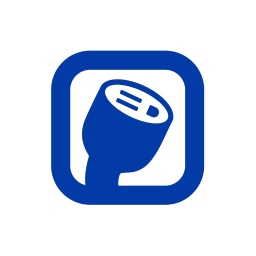
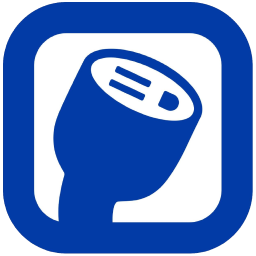
Update Documentation/assets. Update terminology for sensor.

diff --git a/custom_components/plugshare/sensor.py b/custom_components/plugshare/sensor.py
@@ -189,6 +189,8 @@ class PlugShareOutletSensor(PlugShareBaseSensor):
     def native_value(self):
         try:
             status = self.coordinator.data["stations"][0]["outlets"][self._outlet_index].get("status", "Unknown")
+            if status.upper() == "OUTOFORDER":
+                return "Out of order"
             return status.replace("_", " ").title()
         except (IndexError, KeyError):
             return "Unavailable"

diff --git a/README.md b/README.md
@@ -1,12 +1,60 @@
 # PlugShare for Home Assistant
 
+![](custom_components/plugshare/brand/icon.png)
+
+[![HACS](https://img.shields.io/badge/HACS-Custom-orange.svg)](https://github.com/hacs/integration)
+[![HACS Validation](https://github.com/nadeemsultan/homeassistant-plugshare/actions/workflows/hacs.yaml/badge.svg)](https://github.com/nadeemsultan/homeassistant-plugshare/actions/workflows/hacs.yaml)
+
 A custom integration for Home Assistant to monitor PlugShare EV charging locations, real-time stall availability, individual plug status, power ratings, and charging session timestamps.
 
 ## Features
 - **Live Occupancy:** Real-time available and in-use stall counters.
-- **Plug Monitoring:** Per-outlet status (`Charging`, `Available`, `Outoforder`), power output (kW), voltage (V), current (A), and status change timestamps.
+- **Plug Monitoring:** Per-outlet status (for example, `Charging`, `Available`, or `Out of order`), power output (kW), voltage (V), current (A), and status change timestamps.
 - **Location Diagnostics:** Pricing/tariffs, 24/7 access flags, repair problem alerts, and station hardware serial numbers.
 - **UI Config Flow:** Simple setup using standard PlugShare Location IDs.
+
+## Requirements
+
+- Home Assistant 2024.1.0 or newer.
+- Internet access from the Home Assistant host.
+- A valid PlugShare location ID.
+
+This integration does not require PlugShare account credentials. It retrieves station data from the PlugShare cloud service.
+
+
+## Entities & Data Provided
+Each configured PlugShare station creates a primary device representing the location with the following sensors and binary sensors. Entity IDs are generated from the station name.
+
+### Station Sensors
+| Entity | Entity ID pattern | Entity Category | Value | Description |
+|---|---|---|---|---|
+| Overall Status | `sensor.<station_name>_overall_status` | — | Text | Station operating status, such as `Available` or `Unknown`. |
+| Available Stalls | `sensor.<station_name>_available_stalls` | — | Number (`stalls`) | Currently open charging stalls. |
+| Occupied Stalls | `sensor.<station_name>_occupied_stalls` | — | Number (`stalls`) | Stalls actively charging or otherwise occupied. |
+| Charging Cost | `sensor.<station_name>_charging_cost` | — | Text | Tariff, hourly rate, or cost summary. |
+| Network Provider | `sensor.<station_name>_network_provider` | Diagnostic | Text | Charging network or operator name. |
+| Parking Type | `sensor.<station_name>_parking_type` | Diagnostic | Text | Parking access type, such as `Public` or `Customer Only`. |
+| Location Type | `sensor.<station_name>_location_type` | Diagnostic | Text | Point-of-interest category, such as `Hotel` or `Parking Garage`. |
+| Station ID | `sensor.<station_name>_station_id` | Diagnostic | Text | Station identifier. |
+
+### Station Binary Sensors
+| Entity | Entity ID pattern | Entity Category | Device Class | `on` state |
+|---|---|---|---|---|
+| 24/7 Access | `binary_sensor.<station_name>_24_7_access` | Diagnostic | — | Location is open 24/7. |
+| Under Repair | `binary_sensor.<station_name>_under_repair` | — | `problem` | Station is under maintenance or its status indicates repair. |
+| Fast Charger (DCFC) | `binary_sensor.<station_name>_fast_charger_dcfc` | Diagnostic | — | Location offers DC fast charging (Level 3). |
+| Requires Access Card | `binary_sensor.<station_name>_requires_access_card` | Diagnostic | `lock` | An RFID keycard or membership fob is required. |
+
+### Per-Outlet Sensors
+For every outlet returned in the station metadata during setup (`Plug 1`, `Plug 2`, and so on), the integration creates:
+
+| Entity | Entity ID pattern | Entity Category | Device Class | Unit | Description |
+|---|---|---|---|---|---|
+| Plug X Status | `sensor.<station_name>_plug_x_status` | — | — | — | Status returned by the API, formatted for display. |
+| Plug X Power | `sensor.<station_name>_plug_x_power` | — | `power` | `kW` | Maximum rated power output. |
+| Plug X Voltage | `sensor.<station_name>_plug_x_voltage` | Diagnostic | `voltage` | `V` | Rated connector voltage. |
+| Plug X Current | `sensor.<station_name>_plug_x_current` | Diagnostic | `current` | `A` | Rated amperage limit. |
+| Plug X Last Changed | `sensor.<station_name>_plug_x_last_changed` | — | `timestamp` | API-provided timezone | Parsed timestamp for the plug's last status change. |
 
 ## Installation
 
@@ -14,7 +62,7 @@ A custom integration for Home Assistant to monitor PlugShare EV charging locatio
 1. In Home Assistant, open **HACS** > Three dots menu (top right) > **Custom repositories**.
 2. Add repository URL: `https://github.com/nadeemsultan/homeassistant-plugshare`
 3. Set Category to **Integration** and click **Add**.
-4. Search for **PlugShare EV Tracker** and click **Download**.
+4. Search for **PlugShare** and click **Download**.
 5. Restart Home Assistant.
 
 ### Manual Installation
@@ -22,7 +70,45 @@ A custom integration for Home Assistant to monitor PlugShare EV charging locatio
 2. Copy the `custom_components/plugshare` folder into your Home Assistant `/config/custom_components/` directory.
 3. Restart Home Assistant.
 
+
 ## Configuration
 1. Go to **Settings** > **Devices & Services** > **Add Integration**.
-2. Search for **PlugShare EV Tracker**.
-3. Enter the target **Location ID** (e.g., from `https://www.plugshare.com/location/741158`, the ID is `741158`).
+2. Search for **PlugShare**.
+3. Enter the target **Location ID**. The ID is the number at the end of a PlugShare location URL, such as `741158` in `https://www.plugshare.com/location/741158`.
+4. Submit the form and complete the setup.
+
+Each PlugShare location can only be configured once. To monitor another location, add another PlugShare integration entry with its own Location ID.
+
+## Polling and Updates
+
+- Station data is refreshed every 180 seconds (3 minutes).
+- API requests time out after 15 seconds.
+- The integration uses cloud polling, so availability depends on both Home Assistant's internet connection and the PlugShare service.
+- The integration does not provide local charger control or guarantee hardware-level real-time status.
+
+## Troubleshooting
+
+| Message | Meaning | Action |
+|---|---|---|
+| Failed to connect to the PlugShare API. | Home Assistant could not reach the PlugShare service. | Check the Home Assistant host's internet access and review the Home Assistant logs. |
+| Invalid Location ID or station not found. | The ID is invalid or the location is unavailable. | Verify the numeric ID in the PlugShare location URL. |
+| This PlugShare location is already configured. | The location has already been added. | Use the existing integration entry or configure a different location. |
+
+If data stops updating, check **Settings** > **System** > **Logs** for PlugShare errors. Temporary API or network failures may resolve on the next polling cycle.
+
+## Data Limitations
+
+Sensor values depend on the data returned by PlugShare. A station may have missing or stale pricing, ratings, outlet specifications, or availability data. Outlet entities are created from the station metadata available during setup, so stations with incomplete outlet information may expose fewer per-outlet sensors.
+
+PlugShare status should be treated as informational and may not exactly match the physical state of a charger. This integration is read-only and does not start, stop, or control charging sessions.
+
+## Removing the Integration
+
+To remove a configured location, go to **Settings** > **Devices & Services**, open the **PlugShare** integration, and choose **Delete**. To change a Location ID, remove the existing entry and add PlugShare again with the new ID.
+
+## Support
+
+Before opening an issue, include the Home Assistant version, integration version, affected Location ID, relevant log messages, and a description of the expected and actual behavior. Do not include credentials or private network information.
+
+- [Report a problem](https://github.com/nadeemsultan/homeassistant-plugshare/issues)
+- [Project repository](https://github.com/nadeemsultan/homeassistant-plugshare)

diff --git a/.github/pull_request_template.md b/.github/pull_request_template.md
@@ -1,0 +1,9 @@
+## Summary
+Describe what changes this PR makes.
+
+Fixes #(issue)
+
+## Checklist
+- [ ] Tested locally and working.
+- [ ] I have followed Home Assistant development practices and standards.
+- [ ] Updated README if necessary.
